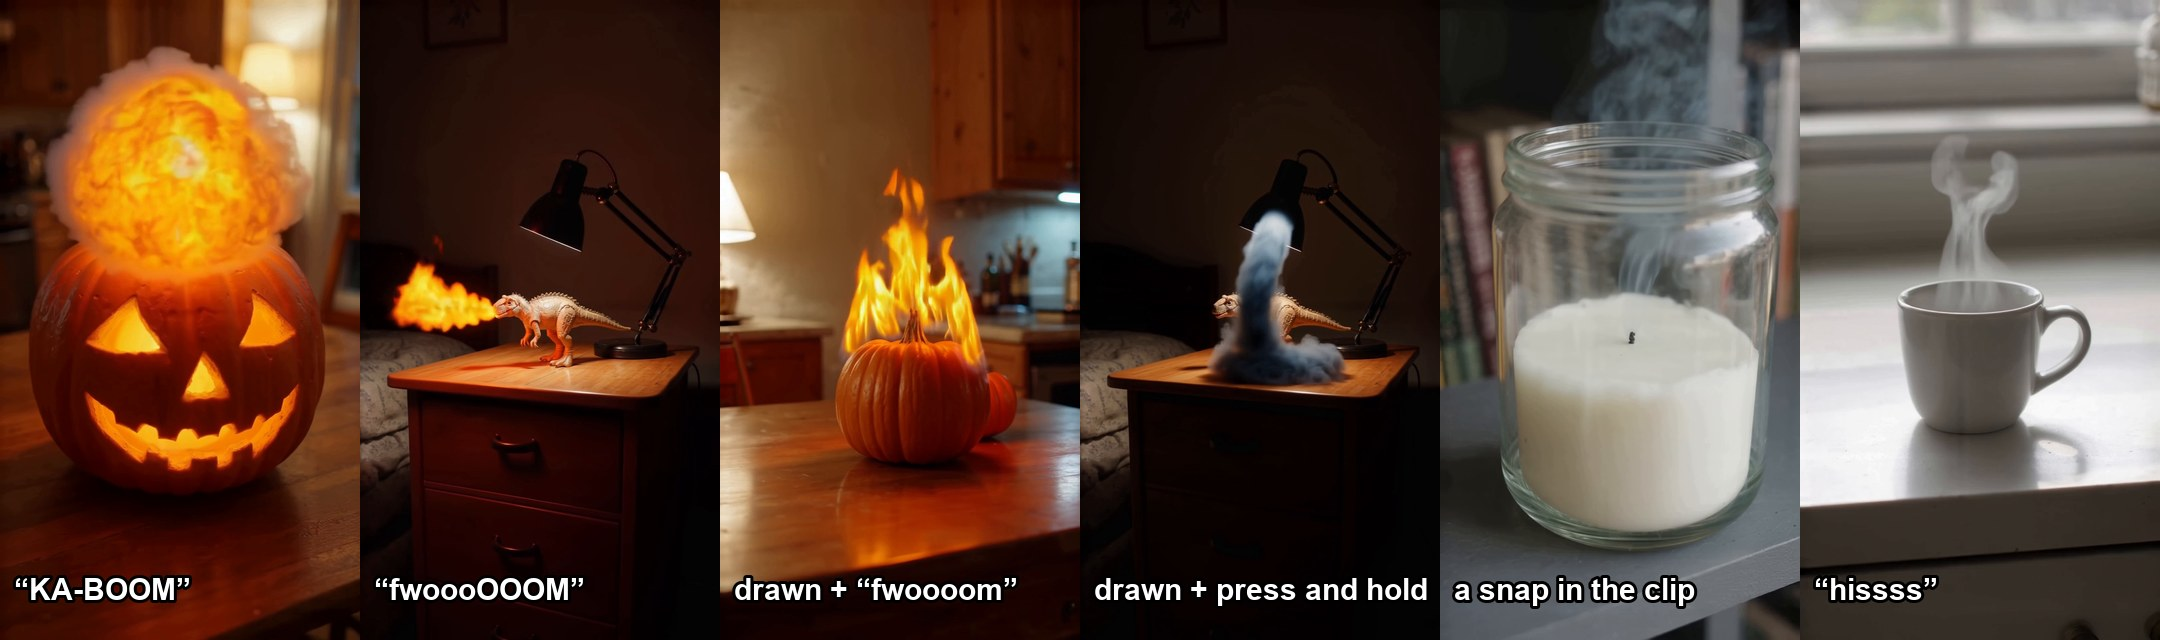
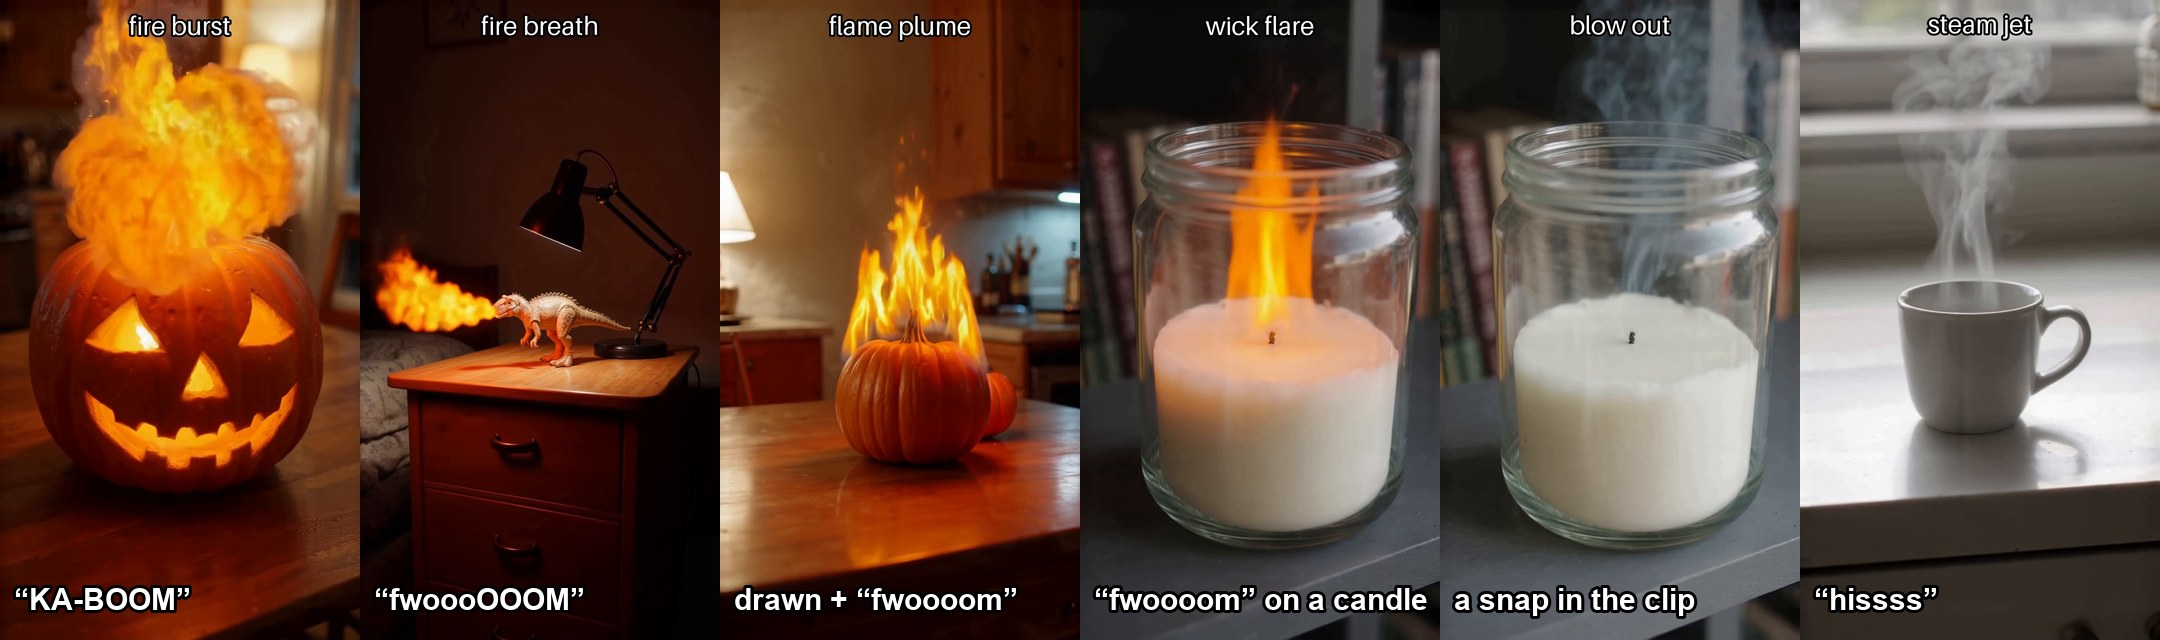
docs: README images from the new renders; timing denominators, stop times and the object picker stated plainly

diff --git a/web/app/page.tsx b/web/app/page.tsx
@@ -8,7 +8,7 @@ export default function Home() {
       <h1>Cue the Boom</h1>
       <p className="lede">Draw where. Cue it with a sound. The scene reacts.</p>
       <p className="muted">
-        Put fire, smoke or steam into your own shot exactly where it should come from (tap it, or draw it) and exactly
+        Put fire, smoke or steam into your own shot exactly where it should come from (tap it, or draw it) and
         when it should happen: say it (<em>pf.</em>, <em>KA-BOOM</em>, <em>fwoooOOOM</em>, <em>hissss</em>), lock it to a sound
         already in your clip (a snap, a click, a slam), or press and hold. How you cue it shapes it: when it erupts, how
         big it gets, how long it lasts. LTX-2.5 renders it into the scene, so the room lights up and the scene changes; a

diff --git a/tools/make_readme_images.py b/tools/make_readme_images.py
@@ -1,0 +1,69 @@
+"""The README's images from the sample scene shots: media/hero.jpg (six shots, a frame each, labelled) and
+media/how-it-was-made.jpg (a frame of one shot's breakdown: plate, guide, render, shot).
+
+    python tools/make_readme_images.py samples/made_ahead/scene
+"""
+
+from __future__ import annotations
+
+import argparse
+import json
+import sys
+from pathlib import Path
+
+from PIL import Image, ImageDraw, ImageFont
+
+sys.path.insert(0, str(Path(__file__).resolve().parents[1] / "cuesync" / "src"))
+from cuesync.media import read_video  # noqa: E402
+
+HERO = [  # shot, frames after its hit, label
+    ("jackolantern_kitchen__ka-boom__fire_burst", 12, "“KA-BOOM”"),
+    ("toy_desk__fwoooom__fire_breath", 12, "“fwoooOOOM”"),
+    ("pumpkin_kitchen__fwoooom__flame_plume", 22, "drawn + “fwoooom”"),
+    ("candle_shelf__fwoooom__wick_flare", 22, "“fwoooom” on a candle"),
+    ("candle_snap__clip__blow_out", 22, "a snap in the clip"),
+    ("mug_counter__hissss__steam_jet", 22, "“hissss”"),
+]
+BREAKDOWN = ("jackolantern_kitchen__ka-boom__fire_burst", 8)
+
+
+def font(size: int):
+    for name in ("arialbd.ttf", "DejaVuSans-Bold.ttf"):
+        try:
+            return ImageFont.truetype(name, size)
+        except OSError:
+            continue
+    return ImageFont.load_default()
+
+
+def frame_after_hit(d: Path, name: str, after: int) -> Image.Image:
+    hit = json.loads((d / "receipt.json").read_text())["alignment"]["hit_frame"]
+    frames = read_video(d / name).frames
+    return Image.fromarray(frames[min(max(hit + after, 0), len(frames) - 1)])
+
+
+def main() -> int:
+    ap = argparse.ArgumentParser(description=__doc__.split("\n")[0])
+    ap.add_argument("shots", nargs="?", default="samples/made_ahead/scene")
+    ap.add_argument("-o", "--out", default="media")
+    a = ap.parse_args()
+    root, out = Path(a.shots), Path(a.out)
+    w, h = 360, 640
+    hero = Image.new("RGB", (w * len(HERO), h))
+    d = ImageDraw.Draw(hero)
+    f = font(30)
+    for i, (shot, after, label) in enumerate(HERO):
+        im = frame_after_hit(root / shot, "final.mp4", after)
+        im = im.crop((0, 0, im.width, int(im.width * 16 / 9)))  # the shot, without the cue ribbon under it
+        hero.paste(im.resize((w, h), Image.Resampling.LANCZOS), (i * w, 0))
+        d.text((i * w + 14, h - 30), label, font=f, fill=(255, 255, 255), anchor="ls", stroke_width=3, stroke_fill=(0, 0, 0))
+    hero.save(out / "hero.jpg", quality=88)
+    shot, after = BREAKDOWN
+    bd = frame_after_hit(root / shot, "breakdown.mp4", after)
+    bd.resize((540, int(540 * bd.height / bd.width)), Image.Resampling.LANCZOS).save(out / "how-it-was-made.jpg", quality=88)
+    print(f"{out / 'hero.jpg'}, {out / 'how-it-was-made.jpg'}")
+    return 0
+
+
+if __name__ == "__main__":
+    raise SystemExit(main())

diff --git a/README.md b/README.md
@@ -2,7 +2,7 @@
 
 **Draw where. Cue it with a sound. The scene reacts.**
 
-Put fire, smoke or steam into your own shot exactly where it should come from (tap it, or draw it) and exactly when it should happen: say it ("pf.", "KA-BOOM", "fwoooOOOM", "hissss"), lock it to a sound that is already in your clip (a finger snap, a lighter's click, a door slam), or press and hold. No timestamps to type: the sound sets the hit frame, and how you made it sets how big it gets and how long it lasts. **LTX-2.5** with the **[ainvfx-fluid](https://huggingface.co/AInVFX/ainvfx-fluid)** IC-LoRA by AInVFX (Adrien Toupet) renders it into your scene, so the generated fire lights the room and the scene changes with it: a blown-out candle stays out. Then CueSync measures where the effect actually landed and moves it onto your cue, and every shot says by how much.
+Put fire, smoke or steam into your own shot exactly where it should come from (tap it, or draw it) and when it should happen: say it ("pf.", "KA-BOOM", "fwoooOOOM", "hissss"), lock it to a sound that is already in your clip (a finger snap, a lighter's click, a door slam), or press and hold. No timestamps to type: the sound sets the hit frame, and how you made it sets how big it gets and how long it lasts. **LTX-2.5** with the **[ainvfx-fluid](https://huggingface.co/AInVFX/ainvfx-fluid)** IC-LoRA by AInVFX (Adrien Toupet) renders it into your scene, so the generated fire lights the room and the scene changes with it: a blown-out candle stays out. Then CueSync measures where the effect actually landed and moves it onto your cue, and every shot says by how much.
 
 ![The scene reacts](media/hero.jpg)
 <sub>Scene-mode shots. The plates are stand-ins generated with LTX-2.5 and the noises are synthetic, until real phone footage is added; the effects are rendered into each plate by LTX-2.5 + ainvfx-fluid, from the cue, and timed by CueSync.</sub>
@@ -78,7 +78,7 @@ Install the node pack (`comfyui-cuesync/` into `ComfyUI/custom_nodes/`, then `pi
 
 ![How it was made](media/how-it-was-made.jpg)
 
-1. **Read the cue** ([`cues.py`](cuesync/src/cuesync/cues.py), [`audio.py`](cuesync/src/cuesync/audio.py)). Onsets, the hits of a rhythm ("pf, pf, KA-BOOM"), an absolute loudness envelope per video frame, and when the sound is actually there. From your voice, from the clip's own soundtrack, or from press-and-hold. Its shape (a hit, a rhythm, a sustained sound, a breath, a hiss) picks the effect when you let it ([`gestures.py`](cuesync/src/cuesync/gestures.py)).
+1. **Read the cue** ([`cues.py`](cuesync/src/cuesync/cues.py), [`audio.py`](cuesync/src/cuesync/audio.py)). Onsets, the hits of a rhythm ("pf, pf, KA-BOOM"), an absolute loudness envelope per video frame, and when the sound is actually there. From your voice, from the clip's own soundtrack, or from press-and-hold. Its shape (a hit, a rhythm, a sustained sound, a breath, a hiss) picks the effect when you let it ([`gestures.py`](cuesync/src/cuesync/gestures.py)): a sample plate knows what it shows; on your own clip you say what it is (a candle, a jack-o'-lantern, a toy's mouth, a hot drink), since nothing here recognises objects.
 2. **Paint the scene** ([`scene.py`](cuesync/src/cuesync/scene.py)). ainvfx-fluid was trained on controls that paint the whole frame in six flat colour zones, with the real first frame as conditioning. So CueSync paints your plate in its own zones on every keyframe and paints the effect over them: at its source, going its way (a jet out of a mouth that curls up as hot gas rises; a flare that grows out of the candle's own flame and settles back), or filling your drawing as far as your cue says. The scene is held over each 8-frame latent until the hit (a blank latent lets the model start the effect early), and every hit lands on a keyframe.
 3. **Render into the scene.** LTX-2.5 image-to-video starts from your plate's frame at full strength, with the painted guide, through the Comfy SDK ([`runner.py`](cuesync/src/cuesync/runner.py)). The model lights the room, the table and the prop itself, and leaves what the effect leaves behind.
 4. **Time it** ([`scene_shot.py`](cuesync/src/cuesync/scene_shot.py)). The first frame where the effect is visible is measured on the render and moved onto your cue (a burst shows a frame before its "BOOM": light beats sound). A rhythm moves by the middle error of the hits the model kept apart. A blast adds a warm flash at its peak and a camera shake just after it.
@@ -86,7 +86,7 @@ Install the node pack (`comfyui-cuesync/` into `ComfyUI/custom_nodes/`, then `pi
 
 Every shot writes a receipt: the cue, where the hits were painted, how early or late the model put them, how far they were moved, whether the transfer passed its check. LTX-2.5 can only take the guide on an 8-frame grid (a third of a second at 24 fps), and it nearly always starts the effect a few frames early, so this measure-and-move step is what puts the hit on your cue.
 
-How well it works, marked by eye frame by frame on the raw renders of 30 shots ([`tools/timing_annotations.json`](tools/timing_annotations.json), [`tools/measure_timing.py`](tools/measure_timing.py)):
+How well it works, marked by eye frame by frame on the raw renders of 29 shots ([`tools/timing_annotations.json`](tools/timing_annotations.json), [`tools/measure_timing.py`](tools/measure_timing.py)):
 
 | | within one frame (42 ms) of the cue | mean error |
 |---|---|---|
@@ -94,11 +94,13 @@ How well it works, marked by eye frame by frame on the raw renders of 30 shots (
 | the finished shot | 26 of 31 hits | 0.8 frames |
 | the finished shot, renders the onset threshold was not fitted on | 15 of 18 | |
 
+Of the 37 hits painted, 31 have an onset that can be marked; the other 6 are 5 rhythm hits the model merged into a neighbour and 1 start too faint to call.
+
 ![Timing: raw render vs finished shot](media/timing.png)
 
-Before any of that, the take itself has to land where it was performed: [`tools/check_take_timing.py`](tools/check_take_timing.py) replaces the studio's microphone with a synthetic one that makes a noise at the moment the clip shows a chosen frame; in 8 takes the noise was found within 45 ms of it (6 within 20 ms).
+Before any of that, the take itself has to land where it was performed: [`tools/check_take_timing.py`](tools/check_take_timing.py) replaces the studio's microphone with a synthetic one that makes a noise at the moment the clip shows a chosen frame; in 8 takes the noise was found within 45 ms of it (6 within 20 ms). A synthetic microphone has no input latency; a real one reports its own, and the studio subtracts it.
 
-The limits, measured the same way: in a rhythm LTX-2.5 often merges close hits into one (5 of 12 here); those are reported, not faked, and the rest move together. A flame dies down 0.4 to 0.9 s after the voice stops.
+The limits, measured the same way: in a rhythm LTX-2.5 often merges close hits into one (5 of 12 here); those are reported, not faked, and the rest move together. A flame dies down about half a second after the voice stops (0.4 to 1.0 s).
 
 **Element mode** (Advanced in the studio) is the other route: the effect is rendered alone on black and composited onto the untouched plate, with a SAM 2.1 object matte and a linear-light compositor ([`composite.py`](cuesync/src/cuesync/composite.py)).
 
